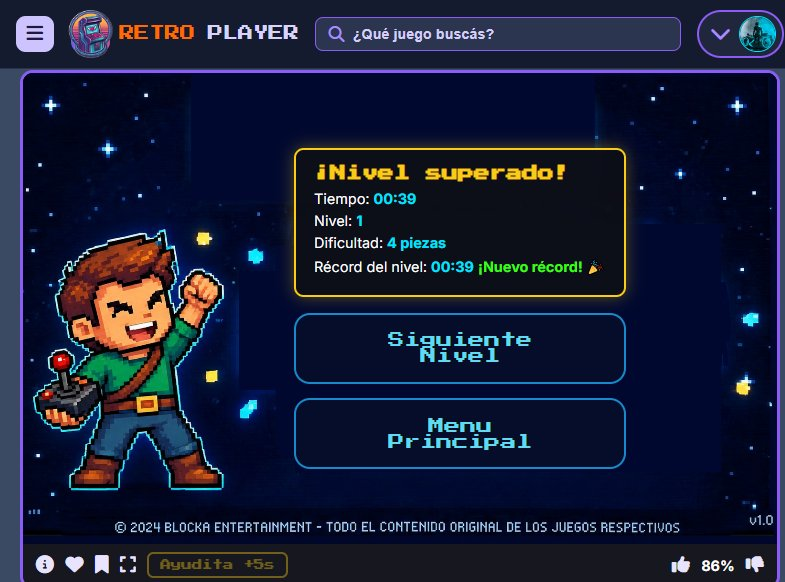
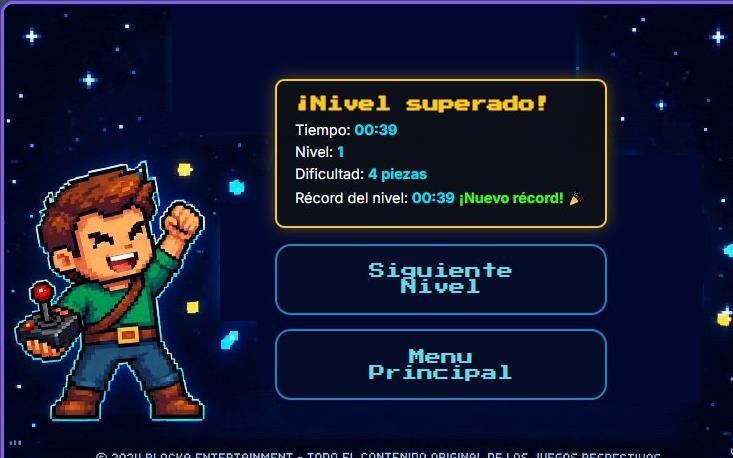
galeria de imagenes

diff --git a/interfases-TPE-Parte-3/css/styles.css b/interfases-TPE-Parte-3/css/styles.css
@@ -497,12 +497,12 @@ img.logo_footer { width: 5rem; height: auto; display: block; }
 .instructions-list { list-style: none; display: flex; flex-direction: column; gap: 0.4rem; }
 .instructions-list li::before { content: "• "; font-weight: 900; }
 
-/* Galería: miniaturas cuadradas 1:1, sin deformación */
+/* Galería: miniaturas con la proporción de las capturas (16:10), sin recortar */
 .gallery-grid { display: grid; grid-template-columns: repeat(4, 1fr); gap: 0.7rem; }
 .gallery-item {
   border-radius: 0.6rem; overflow: hidden; cursor: pointer;
   border: 2px solid #22d3ee; box-shadow: 0 0 12px rgba(34, 211, 238, 0.35);
-  aspect-ratio: 1 / 1; background: #0b0e1a;
+  aspect-ratio: 16 / 10; background: #0b0e1a;
 }
 .gallery-item:nth-child(3n) { border-color: #f0f; box-shadow: 0 0 12px rgba(255, 0, 255, 0.35); }
 .gallery-item:nth-child(4n) { border-color: #f43f5e; }
